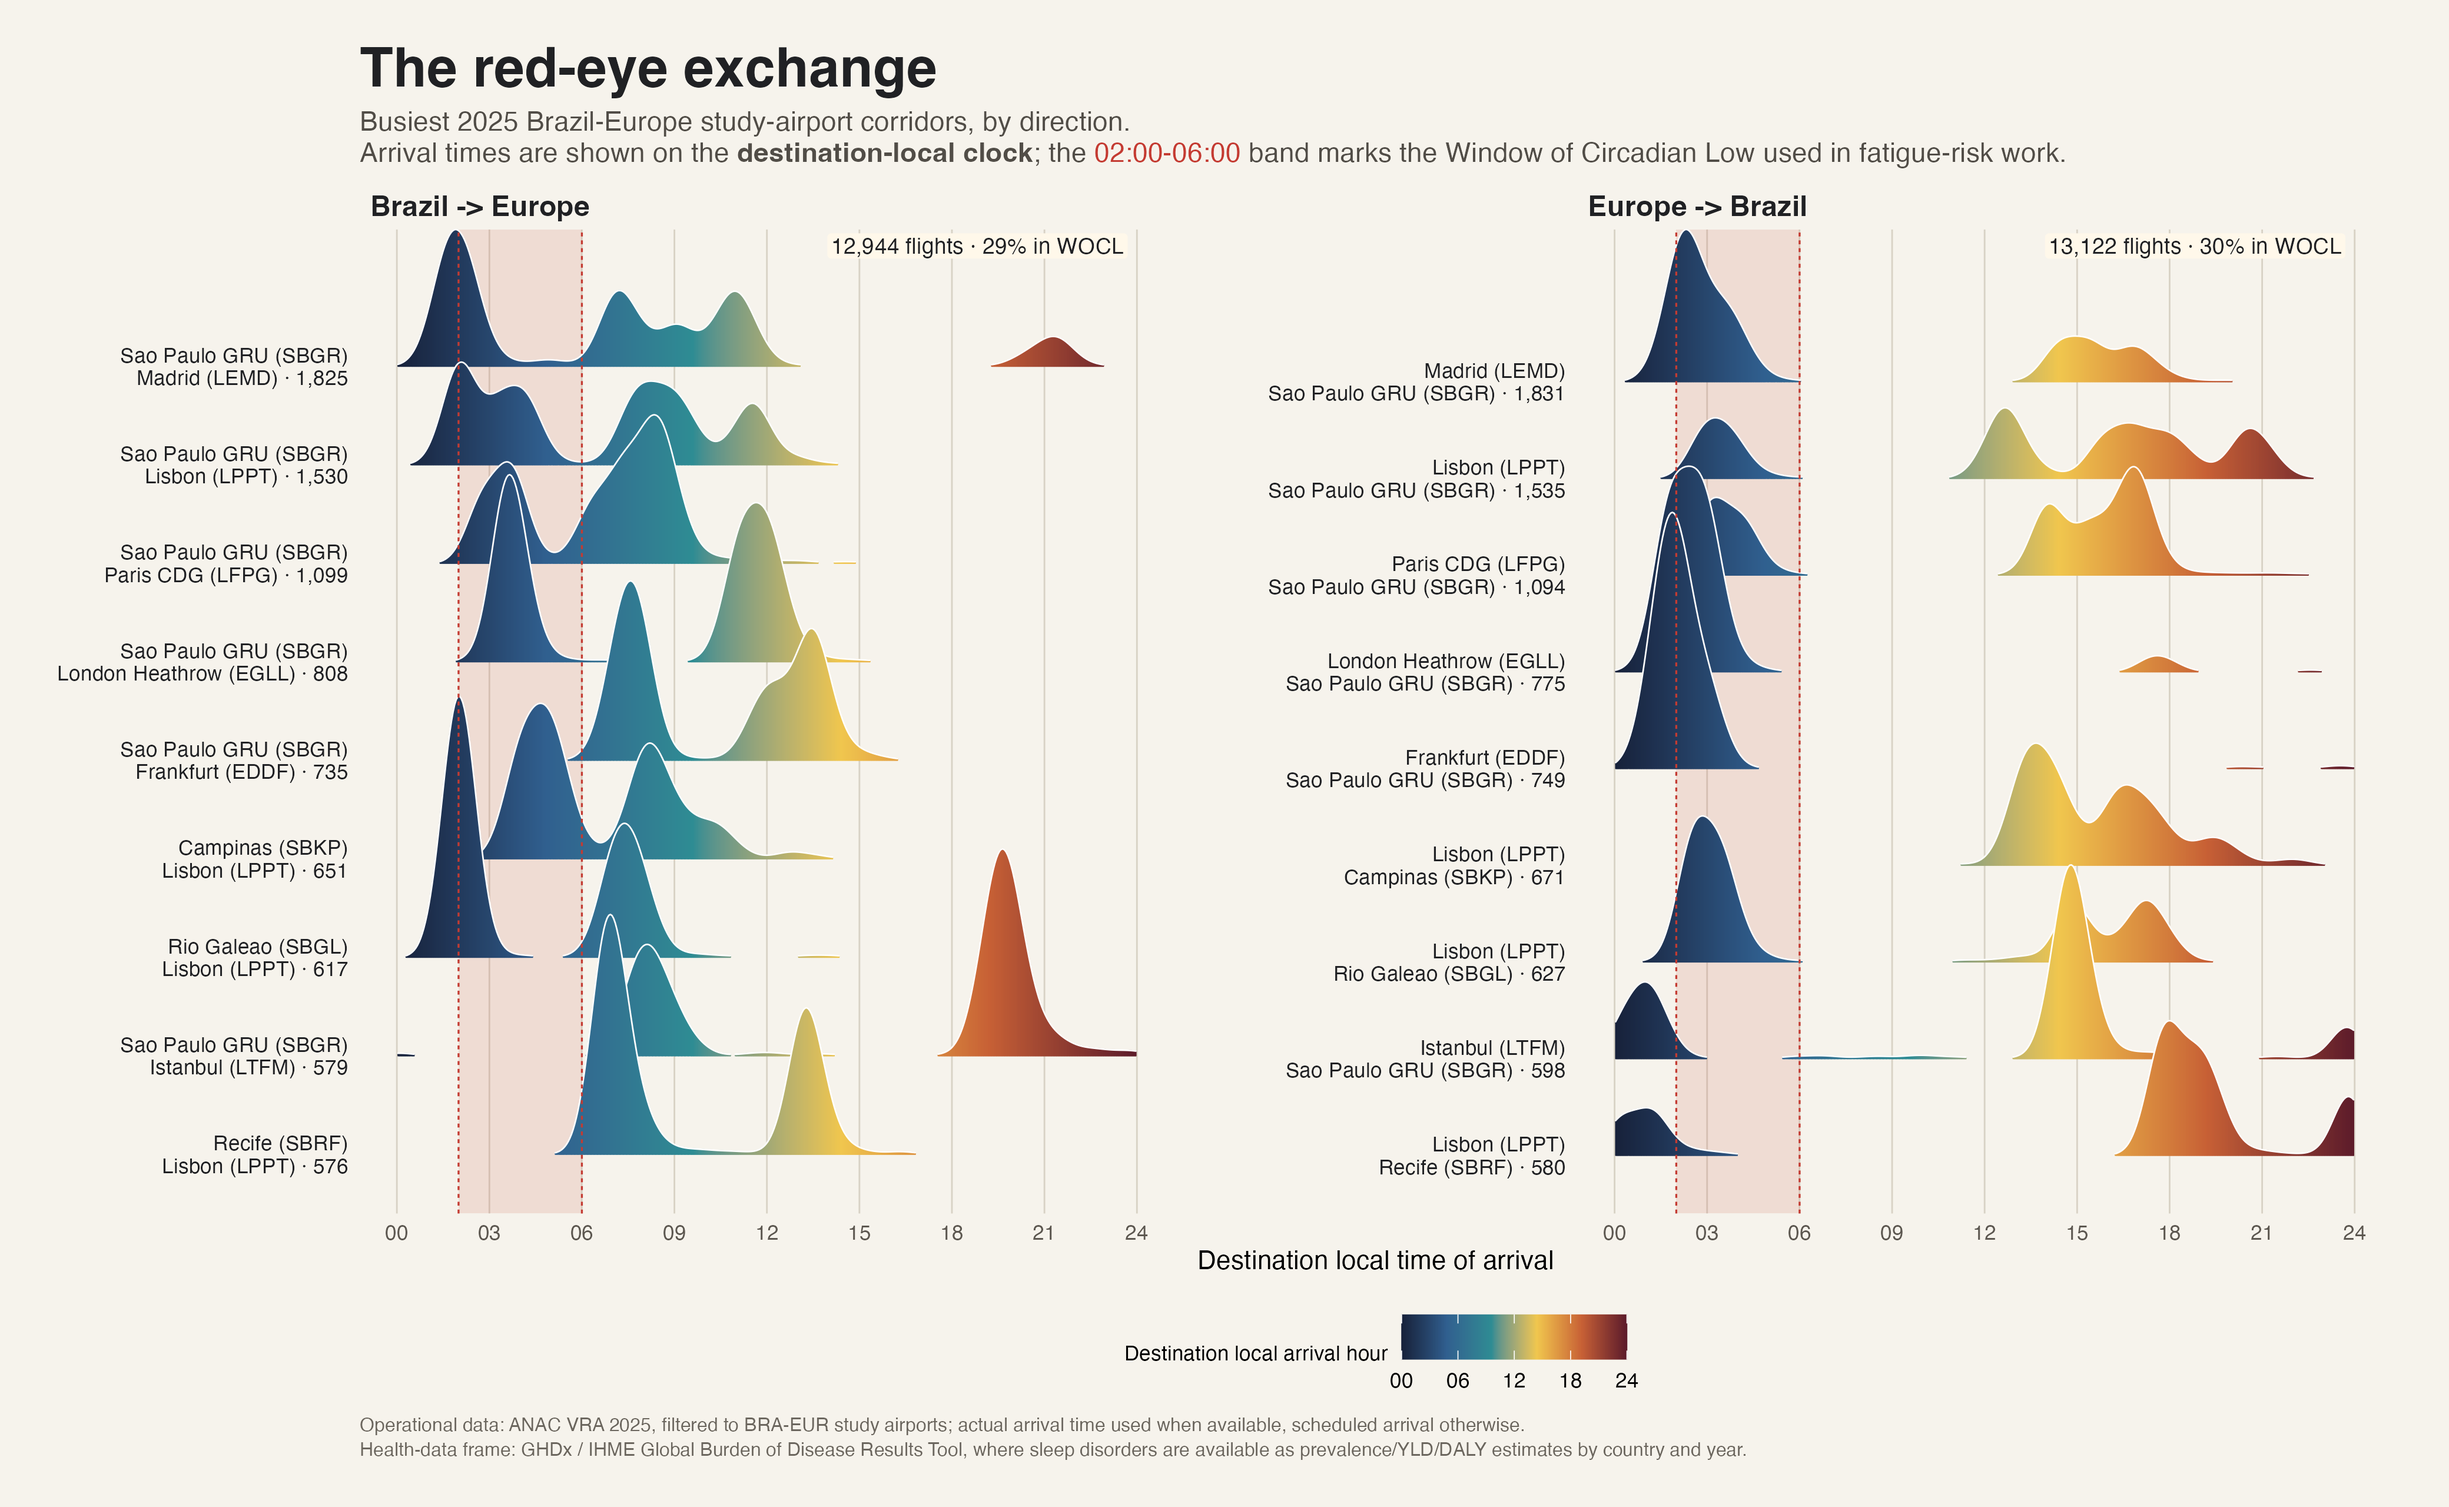
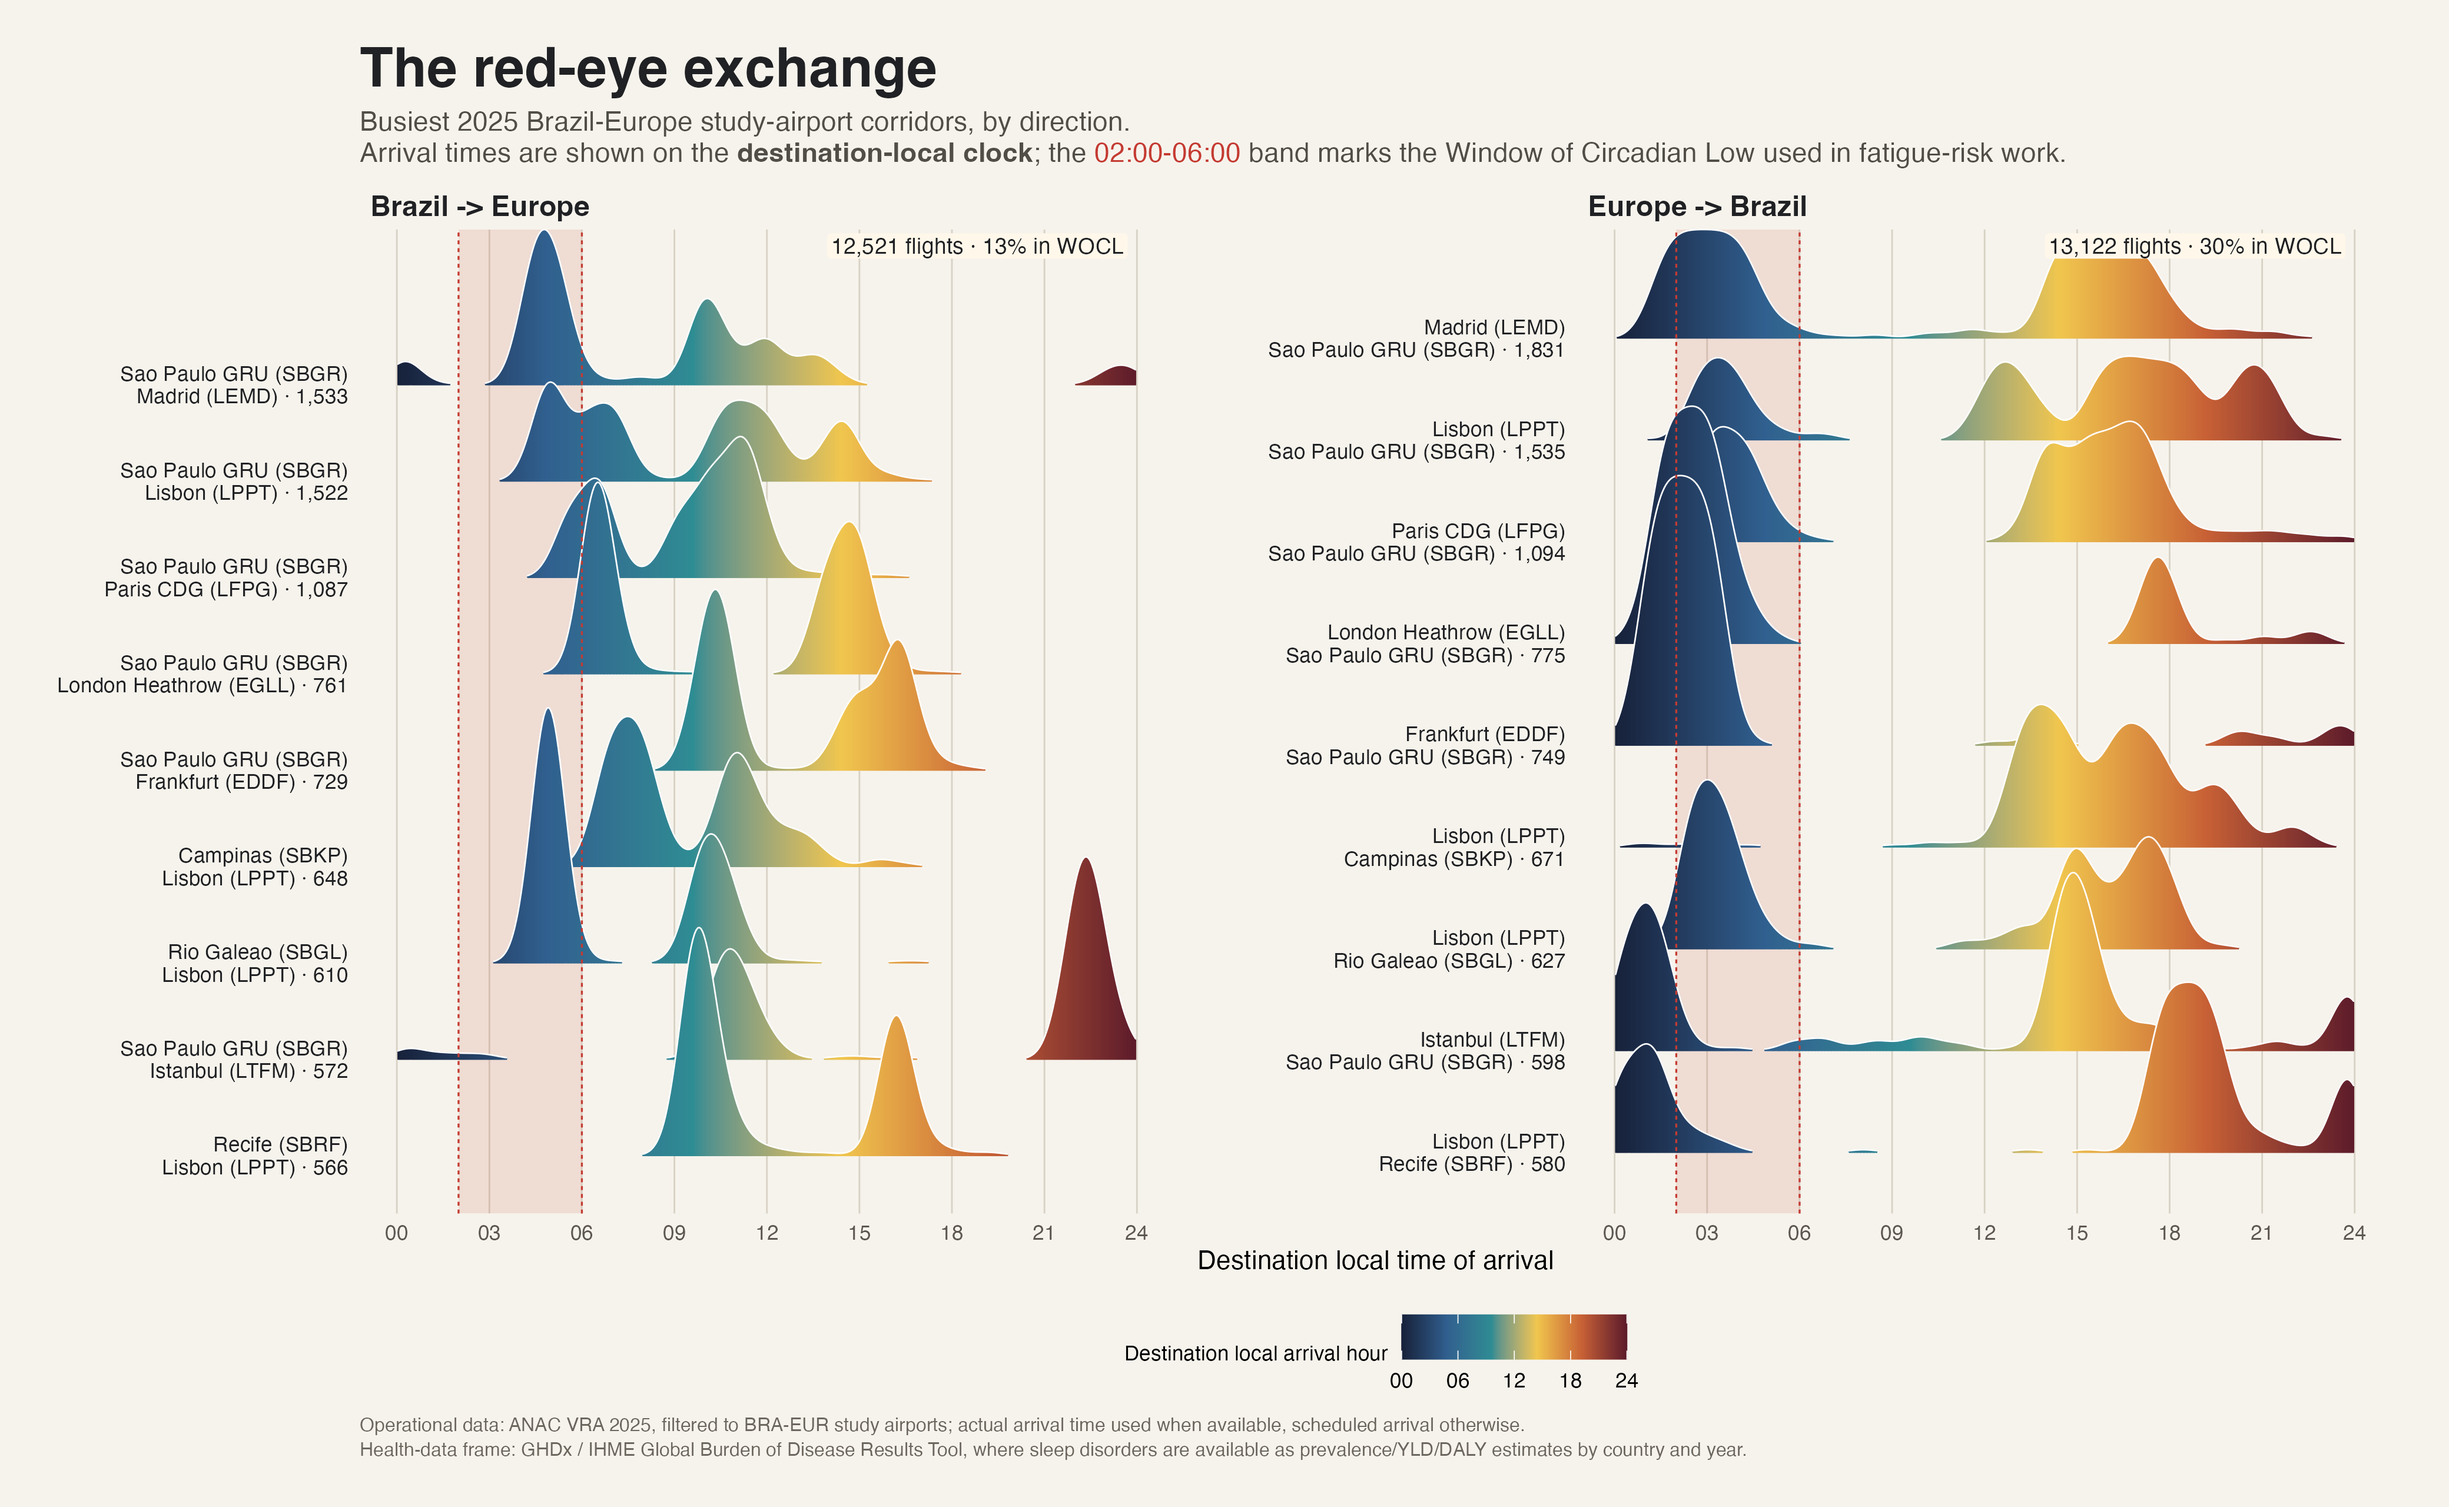
Correct day 30 arrival clocks

diff --git a/README.md b/README.md
@@ -227,7 +227,7 @@ Conceptual building blocks
 
 ### Day 30 - "Global Health Data Exchange"
 
-For Day 30 we used the Global Health Data Exchange as a human-factors lens on the Brazil-Europe comparison study. The chart compares the busiest 2025 study-airport corridors in both directions, showing arrival density on the destination-local clock. The shaded band marks the Window of Circadian Low (WOCL), roughly 02:00-06:00, and the result is a fitting final note: in both directions, about three in ten arrivals fall inside that fatigue-relevant window.
+For Day 30 we used the Global Health Data Exchange as a human-factors lens on the Brazil-Europe comparison study. The chart compares the busiest 2025 study-airport corridors in both directions, showing arrival density on the destination-local clock. The shaded band marks the Window of Circadian Low (WOCL), roughly 02:00-06:00, and the result is a fitting final note: Brazil-to-Europe is closer to one in eight arrivals inside that fatigue-relevant window, while Europe-to-Brazil is near three in ten.
 
 Conceptual building blocks
 
@@ -235,6 +235,7 @@ Conceptual building blocks
 * bidirectional comparison of `Brazil -> Europe` and `Europe -> Brazil`
 * destination-local arrival time, including local time zones at each receiving airport
 * ridgeline densities for the busiest corridors in each direction
+* European APDF arrival records used to validate the Brazil-to-Europe arrival clock
 * GHDx / IHME Global Burden of Disease sleep-disorders data as the health-data frame for the human-factors story
 
 ![Day-30 Global Health Data Exchange](figures/day30-global-health-data-exchange.png)
